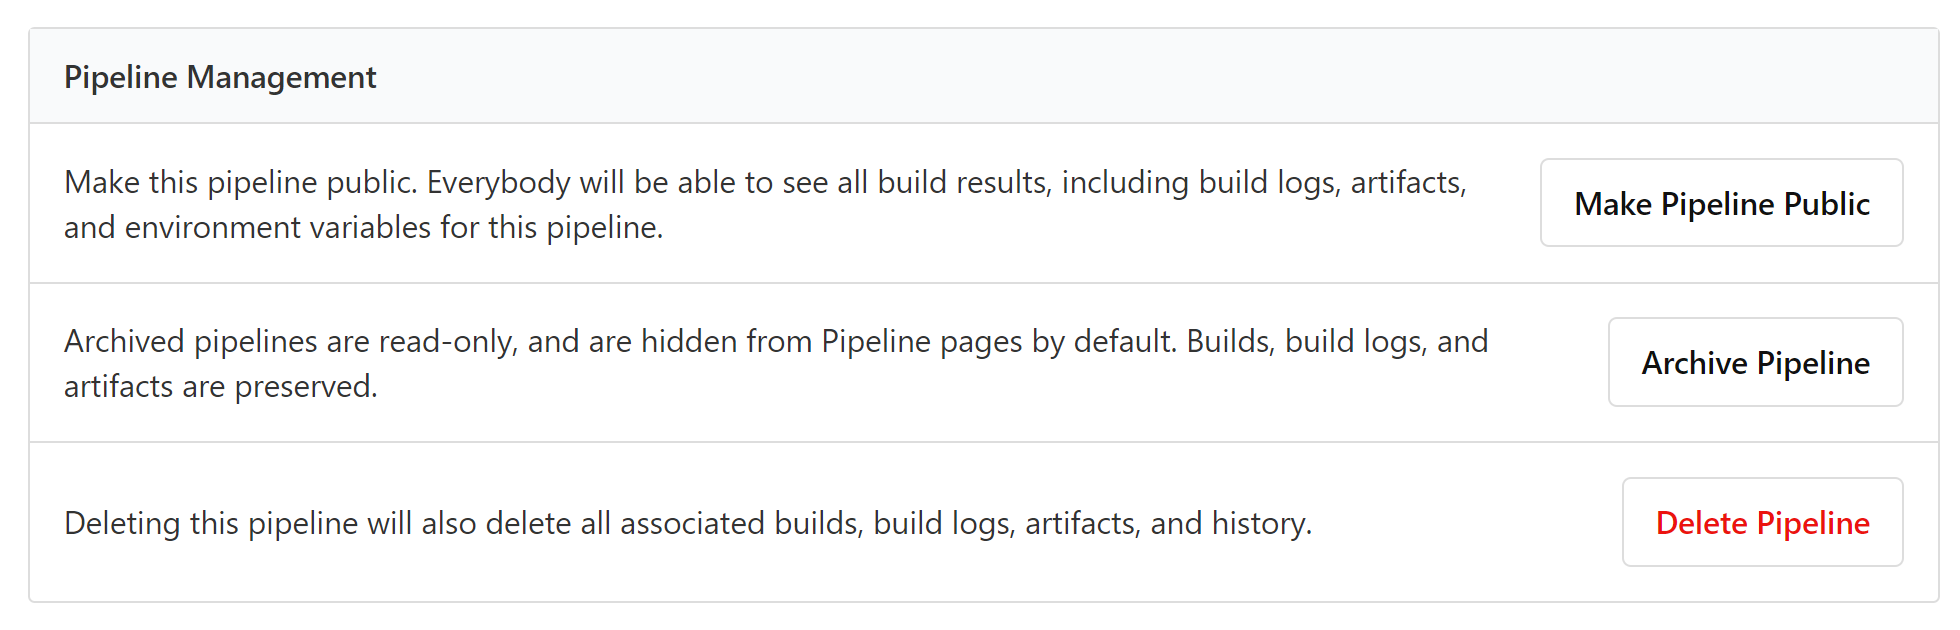
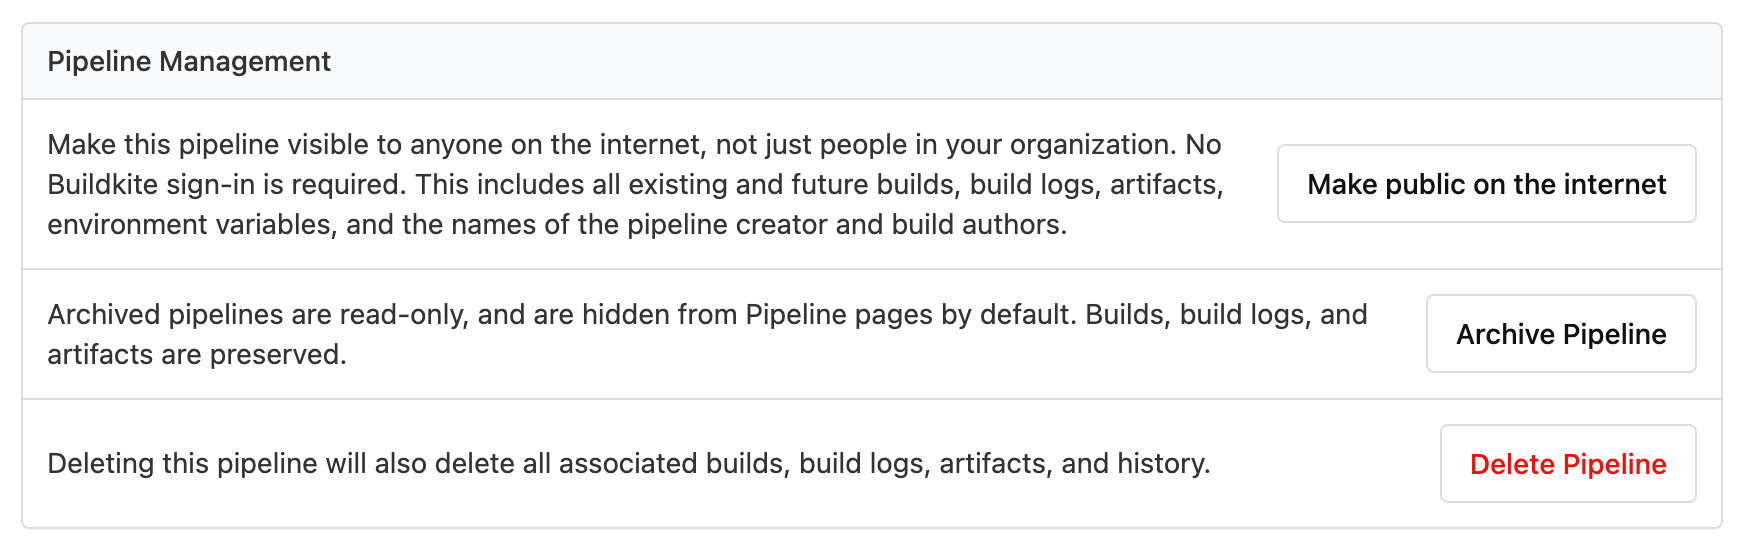
Refresh public pipeline visibility screenshots
Capture the intact Pipeline Management card in both native themes and add a replay recipe.

Amp-Thread-ID: https://ampcode.com/threads/T-82442ed7-d7c2-4a77-bc85-9b37cb23f52a

diff --git a/images/docs/pipelines/configure/public_pipelines/settings.md b/images/docs/pipelines/configure/public_pipelines/settings.md
@@ -1,0 +1,12 @@
+# Pipeline visibility settings
+
+Recreate the **Pipeline Management** card for [Public pipelines](/docs/pipelines/configure/public-pipelines#make-a-pipeline-public-using-the-ui), following the [shared screenshot guidance](../../../../../styleguides/working-with-docs-site.md#screenshots).
+
+Use an existing private pipeline in a development or dedicated integration-test organization that allows public pipelines. You need access to manage the pipeline. Do not change its visibility or other settings.
+
+1. Use Chrome 156 on macOS 27.2 at 100% zoom and DPR 2. Set the viewport to 1300 × 950 CSS pixels. Start in macOS Light with Chrome's `prefers-color-scheme` set to `light`. Use the product's native theme, wait for `document.fonts.ready`, and verify that the heading renders in `.SF NS`.
+1. Open the pipeline's **Settings** > **General** page. Find **Pipeline Management** and verify that **Make public on the internet** is available. Leave all controls untouched.
+1. At scroll (0, 861), crop from (351, 494), 872 × 275 CSS pixels. If the layout differs, measure the entire card border and leave about 10 CSS pixels around it. Move the pointer outside the crop. Keep the full visibility warning and the archive and delete rows. Exclude navigation and account or pipeline identity without editing the page.
+1. Save the crop without resampling as `settings.png` in sRGB. Repeat from fresh navigation with macOS Dark and Chrome's `prefers-color-scheme` set to `dark`. Verify native dark rendering and save `settings-dark.png` with the same frame. Reopen **General** and verify that **Make public on the internet** is still available.
+
+Accept two 1744 × 550 sRGB PNGs, displayed at up to 872 × 275 CSS pixels. Both show the full card, complete help text, and all three controls with identical framing. No browser chrome, callouts, clipping, or identity.

diff --git a/pages/pipelines/configure/public_pipelines.md b/pages/pipelines/configure/public_pipelines.md
@@ -21,7 +21,7 @@ Public visibility doesn't determine whether untrusted code can run. Before enabl
 
 Make a pipeline public in the pipeline's **Settings** > **General** page:
 
-<%= image "settings.png", width: 1960/2, height: 630/2, alt: "Public pipeline settings" %>
+<%= image "settings.png", width: 1744/2, height: 550/2, alt: "Pipeline Management card with Make public on the internet, Archive Pipeline, and Delete Pipeline controls" %>
 
 ## Create a public pipeline using the GraphQL API
 
